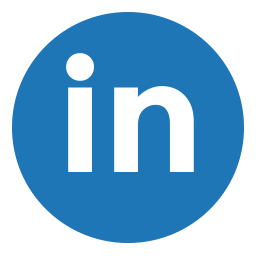
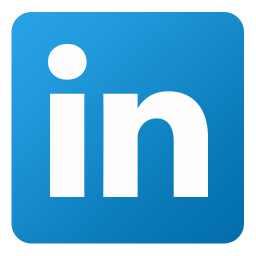
added template for adding more project card rows
- removed leftover carousel css
- changed linkedin icon

diff --git a/home.html b/home.html
@@ -31,7 +31,7 @@
 
         <div class="nav navbar-nav flex-row justify-content-md-center justify-content-start flex-nowrap">
           <a href="https://www.linkedin.com/in/jacobsouther" target="blank">
-              <img class="linkImg" src="linkedin.png"></a>
+              <img class="linkImg" src="linkedIn.png"></a>
         </div>
       </div>
     </nav>
@@ -42,10 +42,29 @@
       </div>
     </div>
     
+    <!-- Project Cards -->
     <div class="row justify-content-center">
+
+      <!-- Col Start
+      <div class="col-8">
+        <div class="card-deck">
+          <div class="card" style="width: 18rem;">
+              <img src="rangerDanger.jpg" class="card-img-top" alt="...">
+              <div class="card-body">
+                <h5 class="card-title">Ranger Danger (C++)</h5>
+                <p class="card-text">Text based video game adaptation of an original board game design.</p>
+                <a href="projects#collapseTwo" class="btn btn-info">Ranger Danger</a>
+              </div>
+            </div>
+          </div>
+      </div>
+        -- Col End -->
+
+      <!-- Col Start -->
       <div class="col-8">
         <div class="card-deck">
 
+          <!-- Ranger Danger -->
           <div class="card" style="width: 18rem;">
             <img src="rangerDanger.jpg" class="card-img-top" alt="...">
             <div class="card-body">
@@ -55,6 +74,7 @@
             </div>
           </div>
 
+          <!-- Website -->
           <div class="card" style="width: 18rem;">
             <img src="personalWebsite.png" class="card-img-top" alt="...">
             <div class="card-body">
@@ -63,28 +83,9 @@
               <a href="projects#collapseOne" class="btn btn-info">Portfolio Website</a>
             </div>
           </div>
-
         </div>
       </div>
-    </div>
-
-    <!--
-    <div class="container">
-      <div class="row">
-        <div class="col text-center">
-          <a href="projects#collapseTwo" class="thumbnail">
-            <button class="btn btn-lg rounded-0 text-white bg-secondary" type="button">Personal Website</button>
-          </a>
-        </div>
-
-        <div class="col text-center">
-          <a href="projects#collapseOne" class="thumbnail">
-            <button class="btn btn-lg rounded-0 text-white bg-secondary" type="button">Ranger Danger</button>
-          </a>
-        </div>
-      </div>
-    </div>
-    -->
+      <!-- Col End -->
 
     <!-- Optional JavaScript -->
     <!-- jQuery first, then Popper.js, then Bootstrap JS -->

diff --git a/stylesheet.css b/stylesheet.css
@@ -22,24 +22,6 @@ h3{
   margin:0px;
 }
 
-.carousel{
-  width:800px;
-  margin: 0 auto;
-}
-
-ol.carousel-indicators li, ol.carousel-indicators li.active {
-  width:20px;
-  height:20px;
-  border-radius:25px;
-  border:1px solid #000000;
-}
-
-.carousel-item img {
-  width:auto;
-  height:650px;
-  max-height:650px;
-}
-
 .linkImg{
   width:2em;
   height: 2em;
@@ -76,7 +58,7 @@ ol.carousel-indicators li, ol.carousel-indicators li.active {
   }
 }
 
-.col{
+.col-8{
   padding-top: 15px;
   padding-bottom: 15px;
 }

diff --git a/projects.html b/projects.html
@@ -57,7 +57,7 @@
               <img src="rangerDanger2.jpg">
             </div>
 
-            <a class="btn btn-dark" href="RangerDanger.zip">
+            <a class="btn btn-info" href="RangerDanger.zip">
               Download RangerDanger.zip
             </a>
           </div>
